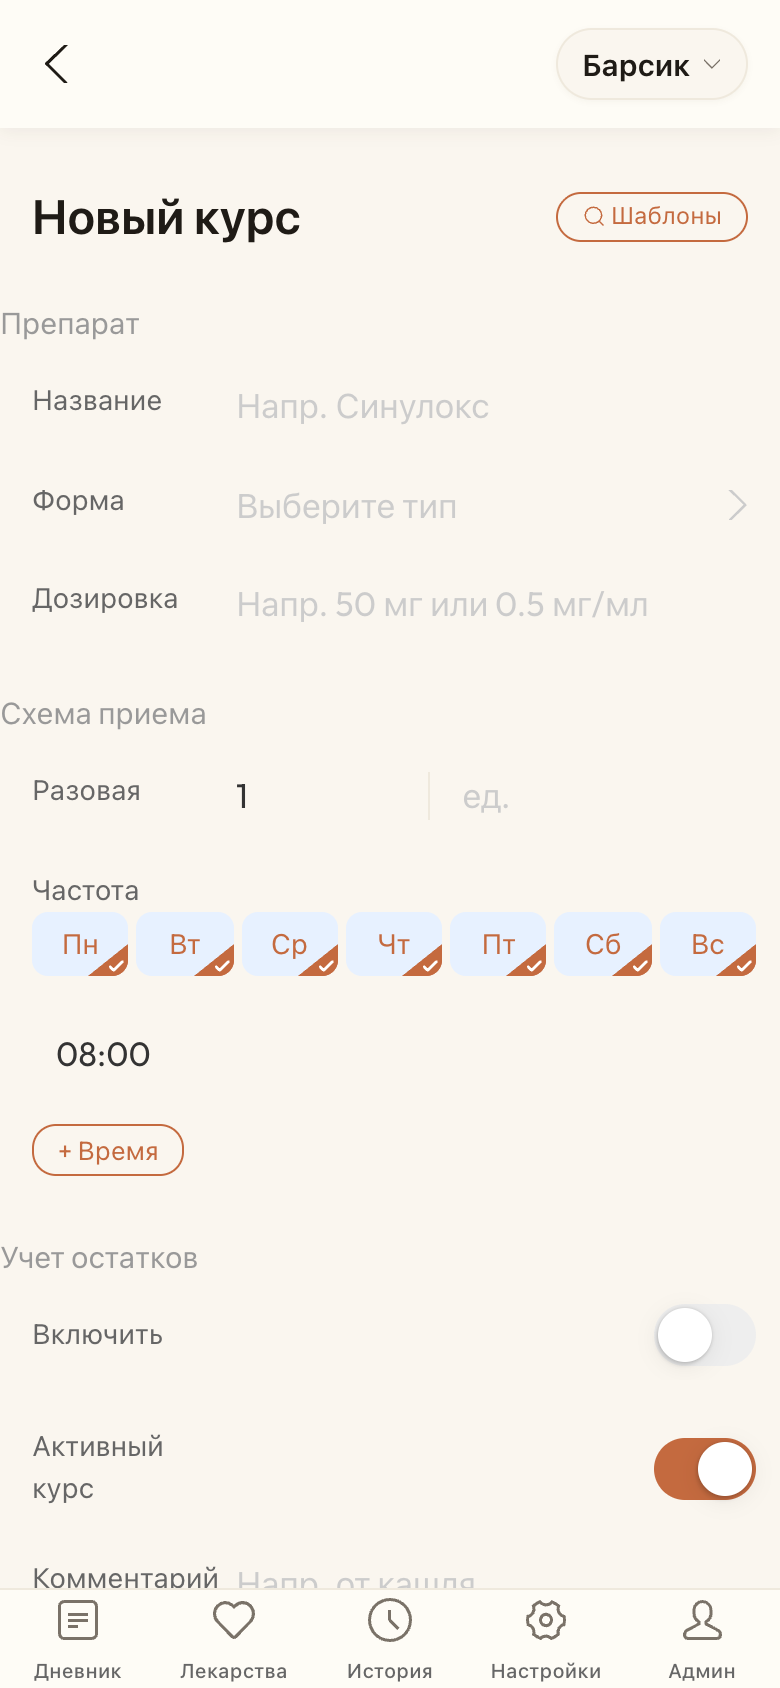
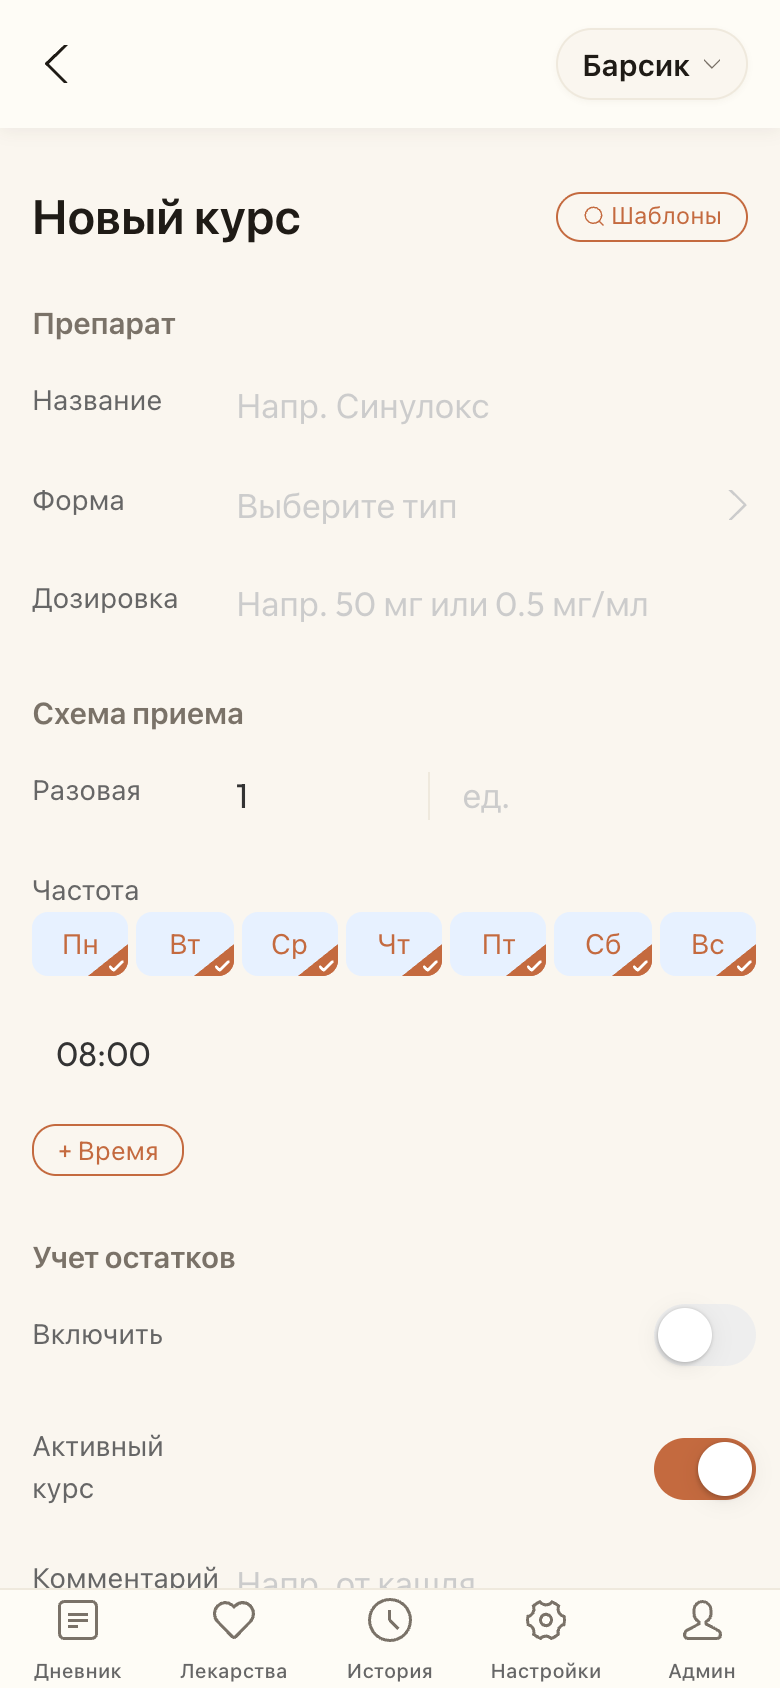
fix(ui): align MedicationForm section headers with form rows
By default antd-mobile's `.adm-list-header` uses `--padding-left: 12px`,
while form rows in horizontal layout push content past a `--prefix-width`
(6em here). The result: 'Препарат', 'Схема приема', 'Учет остатков'
were glued to the screen edge while their fields sat ~40px further in.

- `.adm-form .adm-list-header` now uses `var(--layout-padding-left)`,
  the same safe-area-aware indent as the rest of the page chrome
- Section header typography bumped to font-weight 600 with
  `var(--app-text-secondary)` so it reads as a real section title,
  not antd-mobile's default muted helper text

Changed region(s): [[0.0, 0.7393, 0.3077, 0.7701], [0.0, 0.4005, 0.3077, 0.4313], [0.0, 0.1848, 0.2154, 0.2156]]

diff --git a/frontend/src/styles/globals.css b/frontend/src/styles/globals.css
@@ -255,6 +255,23 @@
     --border-bottom: none !important;
 }
 
+/* Section headers (Form.Header → .adm-list-header) need the same
+   left indent as the form rows they introduce. By default the header
+   uses only --padding-left (12px), while rows in horizontal layout
+   push content past the --prefix-width (6em for "Разовая" / "Форма").
+   That left-shift made "Препарат", "Схема приема", "Учет остатков"
+   look glued to the screen edge. */
+.adm-form .adm-list-header {
+    padding-left: var(--layout-padding-left) !important;
+    padding-right: var(--layout-padding-left) !important;
+    /* Drop the colour antd-mobile applies by default — secondary text
+       doesn't carry enough weight to act as a section title. */
+    color: var(--app-text-secondary) !important;
+    font-family: var(--font-display);
+    font-weight: 600;
+    letter-spacing: -0.01em;
+}
+
 /* antd-mobile's Input defaults to `--background-color: #ffffff`, which
    paints a stark-white rectangle inside any warm card. Drop the white
    fill so inputs sit flush with their parent card. */
